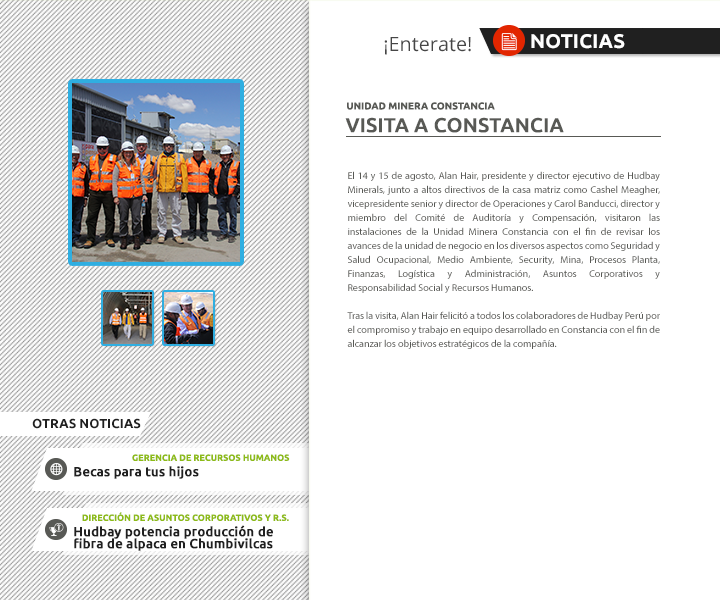
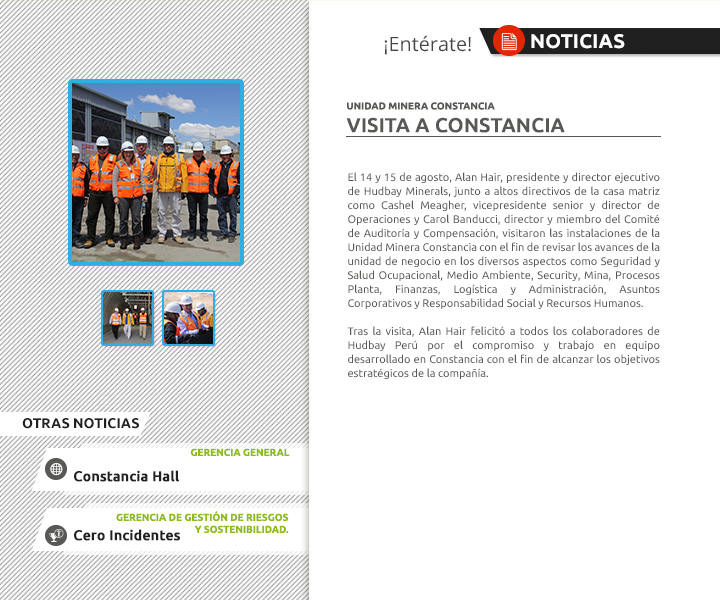
tu

diff --git a/agosto/visita-a-constancia/index.html b/agosto/visita-a-constancia/index.html
@@ -2,8 +2,7 @@
 <html lang="en">
 <head>
 	<meta charset="UTF-8">
-	<title></title>
-	<link rel="stylesheet" href="../../css/pure-min.css">
+	<title>Visita a Constancia</title>
 	<style>
 		main{
 			max-width: 720px;
@@ -13,12 +12,12 @@
 </head>
 <body>
 	<main>
-		<img src="visita-constancia.png?id=2" alt="Noticia" usemap="#mapa">
+		<img src="visita-constancia.png?id=3" alt="Noticia" usemap="#mapa">
 		<map id="mapa" name="mapa">
 			<area shape="rect" alt="" title="" coords="99,288,154,347" href="https://drive.google.com/open?id=0B26Xuf3oET5sNnBOc3BsdkYtU1k" target="_blank" />
 			<area shape="rect" alt="" title="" coords="160,288,215,346" href="https://drive.google.com/open?id=0B26Xuf3oET5sOHU4WkdUU0piMms" target="_blank" />
-			<area shape="rect" alt="Becas" title="Becas" coords="37,443,307,497" href="https://hudbaynews.github.io/2017/agosto/becas-para-tus-hijos/" target="" />
-			<area shape="rect" alt="Fibra" title="Fibra" coords="38,504,308,557" href="https://hudbaynews.github.io/2017/agosto/produccion-fibra-chumbivilcas/" target="" />
+			<area shape="rect" alt="Constancia Hall" title="Constancia Hall" coords="37,443,307,497" href="https://hudbaynews.github.io/2017/septiembre/constancia-hall"/>
+			<area shape="rect" alt="Cero Incidentes" title="Cero Incidentes" coords="38,504,308,557" href="https://hudbaynews.github.io/2017/septiembre/cero-incidentes"/>
 		</map>
 	</main>
 </body>

diff --git a/septiembre/cero-incidentes/index.html b/septiembre/cero-incidentes/index.html
@@ -1,0 +1,25 @@
+<!DOCTYPE html>
+<html lang="en">
+<head>
+	<meta charset="UTF-8">
+	<title>Cero Incidentes</title>
+	<link rel="stylesheet" href="../../css/pure-min.css">
+	<style>
+		main{
+			max-width: 720px;
+			margin: 0 auto;
+		}
+	</style>
+</head>
+<body>
+	<main>
+		<img src="cero-incidentes.png" alt="Noticia" usemap="#mapa">
+		<map id="mapa" name="mapa">
+			<area shape="rect" coords="99,288,154,347" href="https://drive.google.com/open?id=0B26Xuf3oET5sUHIzR0VQODYxd1E" target="_blank" />
+			<area shape="rect" coords="160,288,215,346" href="https://drive.google.com/open?id=0B26Xuf3oET5seTN3TGIzTWFWRlU" target="_blank" />
+			<area shape="rect" alt="Constancia Hall" title="Constancia Hall" coords="37,443,307,497" href="https://hudbaynews.github.io/2017/septiembre/constancia-hall"/>
+			<area shape="rect" alt="Visita Constancia" title="Visita Constancia" coords="38,504,308,557" href="https://hudbaynews.github.io/2017/agosto/visita-a-constancia"/>
+		</map>
+	</main>
+</body>
+</html>

diff --git a/septiembre/constancia-hall/index.html b/septiembre/constancia-hall/index.html
@@ -1,0 +1,24 @@
+<!DOCTYPE html>
+<html lang="en">
+<head>
+	<meta charset="UTF-8">
+	<title>Constancia Hall</title>
+	<style>
+		main{
+			max-width: 720px;
+			margin: 0 auto;
+		}
+	</style>
+</head>
+<body>
+	<main>
+		<img src="constancia-hall.png" alt="Noticia" usemap="#mapa">
+		<map id="mapa" name="mapa">
+			<area shape="rect" coords="99,288,154,347" href="https://drive.google.com/open?id=0B26Xuf3oET5sRWxHNENQZ0NUM3M" target="_blank" />
+			<area shape="rect" coords="160,288,215,346" href="https://drive.google.com/open?id=0B26Xuf3oET5seUxCbFNKZDVRcU0" target="_blank" />
+			<area shape="rect" alt="Cero Incidentes" title="Cero Incidentes" coords="37,443,307,497" href="https://hudbaynews.github.io/2017/septiembre/cero-incidentes"/>
+			<area shape="rect" alt=Visita Constancia" title="Visita Constancia" coords="38,504,308,557" href="https://hudbaynews.github.io/2017/agosto/visita-a-constancia"/>
+		</map>
+	</main>
+</body>
+</html>
